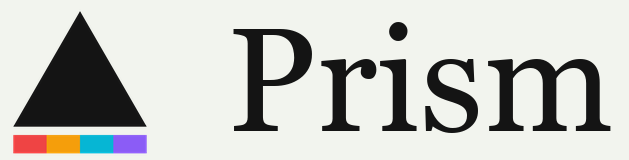
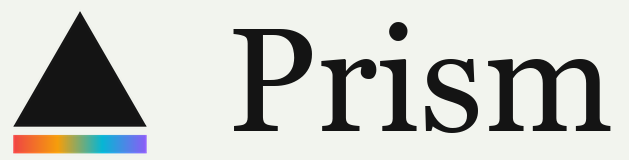
fix(brand): the spectrum is a gradient again, on the corrected geometry
The four-block band read as colour swatches, not a spectrum (founder). The
band under the base is one continuous red → amber → cyan → violet gradient
with the stops at the design's four hues, still exactly the base's width.
Per-instance gradient id in the React mark so header + footer do not share
one; the same gradient in the OG copy and the PNG exports.

Changed region(s): [[0.0302, 0.8438, 0.2417, 0.9688]]

diff --git a/web/src/components/PrismMark.test.tsx b/web/src/components/PrismMark.test.tsx
@@ -18,20 +18,21 @@ describe("PrismMark", () => {
     expect(tri.getAttribute("d")).toBe(MARK_TRIANGLE);
   });
 
-  it("puts the spectrum below the base, exactly as wide as the base, in four crisp segments", () => {
-    const { container } = render(<PrismMark size={24} />);
+  it("puts the spectrum below the base, exactly as wide as the base, as one continuous gradient", () => {
+    const { container } = render(<><PrismMark size={24} /><PrismMark size={24} /></>);
     const rects = [...container.querySelectorAll("rect")];
-    expect(rects).toHaveLength(SPECTRUM.length);
-    expect(rects.map((r) => r.getAttribute("fill"))).toEqual([...SPECTRUM]);
-    const xs = rects.map((r) => Number(r.getAttribute("x")));
-    const ws = rects.map((r) => Number(r.getAttribute("width")));
-    // Base runs x 2…22; the band covers exactly that, contiguous, no overhang.
-    expect(xs[0]).toBe(2);
-    expect(xs[xs.length - 1] + ws[ws.length - 1]).toBe(22);
-    for (let i = 1; i < xs.length; i++) expect(xs[i]).toBeCloseTo(xs[i - 1] + ws[i - 1], 6);
-    // Below the base (y 19), never over it.
-    expect(MARK_BAND.y).toBeGreaterThan(19);
-    expect(MARK_BAND.y + MARK_BAND.height).toBeLessThanOrEqual(24);
+    expect(rects).toHaveLength(2);
+    for (const r of rects) {
+      expect([Number(r.getAttribute("x")), Number(r.getAttribute("width"))]).toEqual([2, 20]);
+      expect(Number(r.getAttribute("y"))).toBeGreaterThan(19);
+      expect(Number(r.getAttribute("y")) + Number(r.getAttribute("height"))).toBeLessThanOrEqual(24);
+    }
+    // One gradient per instance, four stops in the design's hues.
+    const ids = [...container.querySelectorAll("linearGradient")].map((g) => g.id);
+    expect(new Set(ids).size).toBe(2);
+    expect(rects.map((r) => r.getAttribute("fill"))).toEqual(ids.map((id) => `url(#${id})`));
+    const stops = [...container.querySelectorAll("linearGradient")][0].querySelectorAll("stop");
+    expect([...stops].map((s) => s.getAttribute("stop-color"))).toEqual([...SPECTRUM]);
   });
 
   it("is square at every size the design uses", () => {

diff --git a/web/src/components/PrismMark.tsx b/web/src/components/PrismMark.tsx
@@ -1,17 +1,26 @@
+"use client";
+
+import { useId } from "react";
+import { MARK_BAND, MARK_BOX, MARK_TRIANGLE, SPECTRUM_STOPS } from "@/lib/mark";
+
 // The brand glyph: a prism standing over its spectrum. Geometry in lib/mark.ts,
 // shared with the favicon, the share card and the PNG exports, so the tab, the
 // masthead and a WhatsApp preview never disagree. The triangle inherits
 // `currentColor` (ink on ivory, ivory on charcoal); the band is the one
 // coloured element and the only spectrum in the system (DESIGN.md § Colour).
-import { MARK_BAND, MARK_BOX, MARK_TRIANGLE, bandSegments } from "@/lib/mark";
-
+// The gradient id is per instance: two marks on a page (header + footer) must
+// not share one, or the second loses its paint when the first unmounts.
 export function PrismMark({ size = 21 }: { size?: number }) {
+  const gid = `prism-spectrum-${useId().replace(/:/g, "")}`;
   return (
     <svg width={size} height={size} viewBox={`0 0 ${MARK_BOX} ${MARK_BOX}`} fill="none" aria-hidden="true" style={{ flex: "none" }} shapeRendering="geometricPrecision">
       <path d={MARK_TRIANGLE} fill="currentColor" />
-      {bandSegments().map((s) => (
-        <rect key={s.color} x={s.x} y={MARK_BAND.y} width={s.width} height={MARK_BAND.height} fill={s.color} />
-      ))}
+      <rect x={MARK_BAND.x} y={MARK_BAND.y} width={MARK_BAND.width} height={MARK_BAND.height} fill={`url(#${gid})`} />
+      <defs>
+        <linearGradient id={gid} x1="0" y1="0" x2="1" y2="0">
+          {SPECTRUM_STOPS.map((s) => <stop key={s.color} offset={s.offset} stopColor={s.color} />)}
+        </linearGradient>
+      </defs>
     </svg>
   );
 }

diff --git a/web/src/lib/mark.ts b/web/src/lib/mark.ts
@@ -8,17 +8,14 @@
  * The spectrum is a band BELOW the base, exactly the base's width, with a
  * 1.25 gap: the light leaves the prism and lands on the ground. The old band
  * was painted over the triangle's bottom two units and ran wider than the
- * triangle there, so its ends stuck out past the slanted sides. Four crisp
- * segments in the design's four hues (the coverage bar's slot order, DESIGN.md
- * § Colour), not a gradient — at 21px a gradient is mud.
+ * triangle there, so its ends stuck out past the slanted sides. The band is a
+ * continuous spectrum, red → amber → cyan → violet (founder: a spectrum, not
+ * blocks), with the stops at the design's four hues.
  */
 export const MARK_BOX = 24;
 export const MARK_TRIANGLE = "M12 1.68 L22 19 L2 19 Z";
 export const MARK_BAND = { x: 2, y: 20.25, width: 20, height: 2.75 };
 export const SPECTRUM = ["#ef4444", "#f59e0b", "#06b6d4", "#8b5cf6"] as const;
 
-/** The four band segments, left → right, as rects. */
-export function bandSegments(): { x: number; width: number; color: string }[] {
-  const w = MARK_BAND.width / SPECTRUM.length;
-  return SPECTRUM.map((color, i) => ({ x: MARK_BAND.x + i * w, width: w, color }));
-}
+/** Gradient stops, evenly spaced across the band: 0, 1/3, 2/3, 1. */
+export const SPECTRUM_STOPS: { offset: number; color: string }[] = SPECTRUM.map((color, i) => ({ offset: i / (SPECTRUM.length - 1), color }));

diff --git a/web/src/lib/ogCard.tsx b/web/src/lib/ogCard.tsx
@@ -1,4 +1,4 @@
-import { MARK_BAND, MARK_BOX, MARK_TRIANGLE, bandSegments } from "@/lib/mark";
+import { MARK_BAND, MARK_BOX, MARK_TRIANGLE, SPECTRUM_STOPS } from "@/lib/mark";
 import { OG_COLORS, OG_DISPLAY, OG_MONO, displayStack } from "@/lib/ogFonts";
 
 /** The mark as PrismMark draws it, for Satori: a solid triangle on the spectrum bar. */
@@ -7,9 +7,12 @@ export function PrismMarkSvg({ size, ink }: { size: number; ink: string }) {
   return (
     <svg width={size} height={size} viewBox={`0 0 ${MARK_BOX} ${MARK_BOX}`} fill="none">
       <path d={MARK_TRIANGLE} fill={ink} />
-      {bandSegments().map((s) => (
-        <rect key={s.color} x={s.x} y={MARK_BAND.y} width={s.width} height={MARK_BAND.height} fill={s.color} />
-      ))}
+      <rect x={MARK_BAND.x} y={MARK_BAND.y} width={MARK_BAND.width} height={MARK_BAND.height} fill="url(#sp)" />
+      <defs>
+        <linearGradient id="sp" x1="0" y1="0" x2="1" y2="0">
+          {SPECTRUM_STOPS.map((s) => <stop key={s.color} offset={s.offset} stopColor={s.color} />)}
+        </linearGradient>
+      </defs>
     </svg>
   );
 }

diff --git a/design/logo/build.py b/design/logo/build.py
@@ -35,11 +35,17 @@ def mark(px: int, ink: str, bg: str | None, pad_ratio: float = 0.0) -> Image.Ima
     tri = [(off + x * scale, off + y * scale) for x, y in TRI]
     d.polygon(tri, fill=ink)
     bx, by, bw, bh = BAND
-    seg = bw / len(SPECTRUM)
-    for i, c in enumerate(SPECTRUM):
-        x0 = off + (bx + i * seg) * scale
-        x1 = off + (bx + (i + 1) * seg) * scale
-        d.rectangle([x0, off + by * scale, x1, off + (by + bh) * scale], fill=c)
+    x0, x1 = off + bx * scale, off + (bx + bw) * scale
+    y0, y1 = off + by * scale, off + (by + bh) * scale
+    # A continuous spectrum: interpolate between the four stops column by column.
+    stops = [tuple(int(c[i:i + 2], 16) for i in (1, 3, 5)) for c in SPECTRUM]
+    n = int(x1 - x0)
+    for k in range(n):
+        t = k / max(n - 1, 1) * (len(stops) - 1)
+        i = min(int(t), len(stops) - 2)
+        f = t - i
+        col = tuple(round(stops[i][ch] * (1 - f) + stops[i + 1][ch] * f) for ch in range(3))
+        d.line([(x0 + k, y0), (x0 + k, y1)], fill=col)
     return im.resize((px, px), Image.Resampling.LANCZOS)
 
 

diff --git a/DESIGN.md b/DESIGN.md
@@ -85,7 +85,7 @@ reading a manual:
 
 ## The mark
 
-A 24×24 box: an equilateral prism, fill only (no stroke — a stroke put every edge on a fraction and clipped the base), base 20 wide at y 19, apex at 1.68; the spectrum a band below the base, exactly the base's width, 1.25 below it, in the coverage bar's four hues as four crisp segments (a gradient is mud at 21px). Geometry lives once in `web/src/lib/mark.ts`; the favicon, the share card and the PNG exports (`design/logo/build.py` → `design/logo/exports/`, shareable set at `/brand/*.png`) draw the same numbers. The triangle takes `currentColor`; the band is the only spectrum in the system. Fixed 2026-09-20 after the founder zoomed in on the old base.
+A 24×24 box: an equilateral prism, fill only (no stroke — a stroke put every edge on a fraction and clipped the base), base 20 wide at y 19, apex at 1.68; the spectrum a band below the base, exactly the base's width, 1.25 below it, as one continuous spectrum with stops at the coverage bar's four hues (red → amber → cyan → violet). Geometry lives once in `web/src/lib/mark.ts`; the favicon, the share card and the PNG exports (`design/logo/build.py` → `design/logo/exports/`, shareable set at `/brand/*.png`) draw the same numbers. The triangle takes `currentColor`; the band is the only spectrum in the system. Fixed 2026-09-20 after the founder zoomed in on the old base.
 
 ## Colour
 
